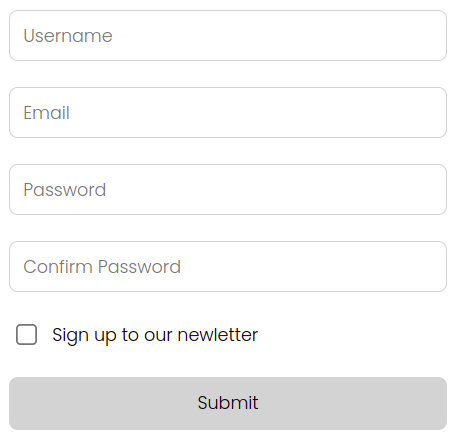
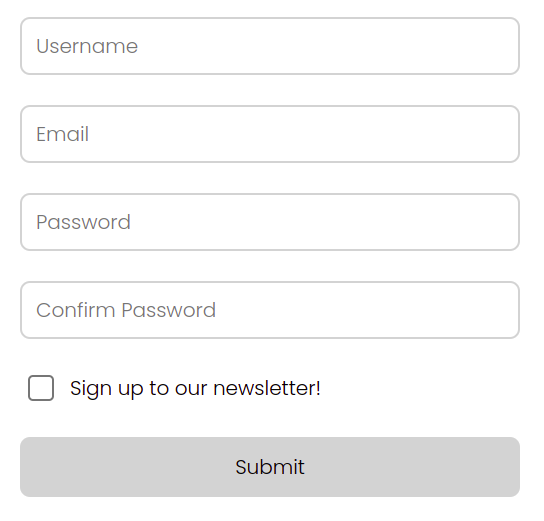
corrected typo on sample checkbox, documentation updated

diff --git a/src/App.js b/src/App.js
@@ -56,7 +56,7 @@ class App extends Component {
         },
         {
           type:'checkbox',
-          label:'Sign up to our newletter',
+          label:'Sign up to our newsletter!',
           name:'newsletterFlag',
           id:'newsletterFlag',
           checked:this.state.formInfo.newsletterFlag
